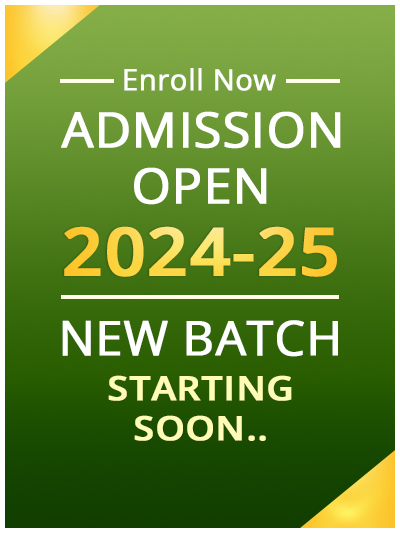
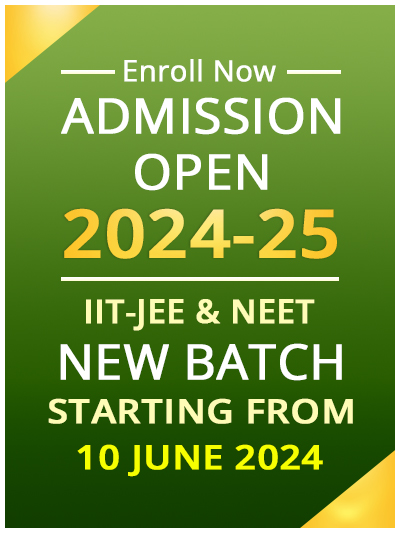
update result,model,notification,gallery

Changed region(s): [[0.12, 0.0901, 0.9, 0.9006], [0.84, 0.1801, 0.87, 0.2101]]

diff --git a/src/pages/Result.js b/src/pages/Result.js
@@ -1,79 +1,3 @@
-// import React from "react";
-// import Tab from "react-bootstrap/Tab";
-// import Tabs from "react-bootstrap/Tabs";
-// import Image from "react-bootstrap/Image";
-// import "./Result.css";
-
-// // Component to render the content of each tab
-// function TabContent({ year, imageUrl }) {
-//   return (
-//     <div
-//       style={{
-//         display: "flex",
-//         flexDirection: "column",
-//         justifyContent: "center",
-//         alignItems: "center",
-//         backgroundColor: "var(--light-yellow-color)",
-//         paddingBottom: "20px",
-//       }}
-//     >
-//       <h1 className="headingTitleNormal display-3">
-//         <span className="headingTitleGradient"> Result : </span> {year}
-//       </h1>
-//       <Image src={imageUrl} fluid />
-//     </div>
-//   );
-// }
-
-// function NoAnimationExample() {
-//   // Array of years and corresponding image URLs for tabs
-//   const tabsData = [
-//     { year: "2023", imageUrl: "./images/result/2023-01.jpg" },
-//     { year: "2022", imageUrl: "./images/result/2022.jpg" },
-//     { year: "2021", imageUrl: "./images/result/2021.jpg" },
-//     { year: "2020", imageUrl: "./images/result/2019.jpg" },
-//     { year: "2019", imageUrl: "./images/result/2019.jpg" },
-//     { year: "2018", imageUrl: "./images/result/2019.jpg" },
-//     { year: "2017", imageUrl: "./images/result/2019.jpg" },
-//     { year: "2016", imageUrl: "./images/result/2019.jpg" },
-//     { year: "2015", imageUrl: "./images/result/2015.jpg" },
-//     { year: "2014", imageUrl: "./images/result/2014.jpg" },
-//     { year: "2013", imageUrl: "./images/result/2013.jpg" },
-
-//     // Add more years and image URLs as needed
-//   ];
-
-//   return (
-//     <Tabs
-//       defaultActiveKey="2023"
-//       transition={false}
-//       id="noanim-tab-example"
-//       className="mb-3 scrollmenu"
-//       style={{
-//         display: "flex",
-//         justifyContent: "center",
-//       }}
-//     >
-//       {/* Render tabs dynamically */}
-//       {tabsData.map(({ year, imageUrl }) => (
-//         <Tab key={year} eventKey={year} title={year}>
-//           <TabContent year={year} imageUrl={imageUrl} />
-//         </Tab>
-//       ))}
-//     </Tabs>
-//   );
-// }
-
-// const Result = () => {
-//   return (
-//     <div className="container" style={{ marginTop: "10px" }}>
-//       <NoAnimationExample />
-//     </div>
-//   );
-// };
-
-// export default Result;
-
 import React from "react";
 import Tab from "react-bootstrap/Tab";
 import Tabs from "react-bootstrap/Tabs";
@@ -110,6 +34,9 @@ function NoAnimationExample() {
     {
       year: "2024",
       imageUrls: [
+        "./images/result/2024-07.jpg",
+        "./images/result/2024-05.jpg",
+        "./images/result/2024-06.jpg",
         "./images/result/2024-01.jpg",
         "./images/result/2024-02.jpg",
         "./images/result/2024-03.jpg",
@@ -137,7 +64,7 @@ function NoAnimationExample() {
 
   return (
     <Tabs
-      defaultActiveKey="2023"
+      defaultActiveKey="2024"
       transition={false}
       id="noanim-tab-example"
       className="mb-3 scrollmenu"

diff --git a/src/pages/Home.js b/src/pages/Home.js
@@ -146,7 +146,7 @@ const Home = () => {
   };
   const HomeFirstImages = [
     "./images/home/top1.jpg",
-    "./images/home/c1.jpg",
+    "./images/home/top3.jpg",
     "./images/home/top2.jpg",
   ];
 
@@ -190,12 +190,11 @@ const Home = () => {
                   >
                     <li>
                       <strong>
-                        JEE / NEET <span style={{ color: "yellow" }}>New</span>
+                        New Batch ( JEE / NEET ){" "}
+                        <span style={{ color: "yellow" }}>New</span>
                       </strong>
                       <p style={{ color: "var(--light-yellow-color)" }}>
-                        <label>
-                          2<sup>nd</sup> JEE and NEET Batch Starting From May
-                        </label>
+                        <label>Starting From 10 june 2024</label>
                       </p>
                     </li>
                     <li>
@@ -206,20 +205,7 @@ const Home = () => {
                         <label>ca/cs batch starting from june</label>
                       </p>
                     </li>
-                    <li>
-                      <strong>
-                        Admit Card for JEE(Advanced) 2024 Examination
-                        <span style={{ color: "yellow" }}> New</span>
-                      </strong>
-                      <p style={{ color: "var(--light-yellow-color)" }}>
-                        <a
-                          href="https://jeeadv.iitm.ac.in/applicant24/"
-                          target="_blank"
-                        >
-                          Click to open
-                        </a>
-                      </p>
-                    </li>
+
                     <li>
                       <strong>
                         MIDAS — Sausar | Seoni | Pandhurna{" "}
@@ -228,6 +214,21 @@ const Home = () => {
                       <p style={{ color: "var(--light-yellow-color)" }}>
                         <a
                           href="https://www.youtube.com/watch?v=UA36JC4Rl8s"
+                          target="_blank"
+                        >
+                          Click to open
+                        </a>
+                      </p>
+                    </li>
+
+                    <li>
+                      <strong>
+                        Admit Card for JEE(Advanced) 2024 Examination
+                        <span style={{ color: "yellow" }}> New</span>
+                      </strong>
+                      <p style={{ color: "var(--light-yellow-color)" }}>
+                        <a
+                          href="https://jeeadv.iitm.ac.in/applicant24/"
                           target="_blank"
                         >
                           Click to open

diff --git a/src/pages/Gallery.js b/src/pages/Gallery.js
@@ -32,6 +32,50 @@ function NoAnimationExample() {
 
   const images1 = [
     {
+      url: "images/gallery/m20.jpg",
+      description: "Patrika Newspaper : 6 june 2024",
+    },
+    {
+      url: "images/gallery/m21.jpg",
+      description: "Divya express Newspaper : 6 june 2024",
+    },
+    {
+      url: "images/gallery/m22.jpg",
+      description: "The Hitavada English Newspaper : 6 june 2024",
+    },
+    {
+      url: "images/gallery/m23.jpg",
+      description: "Navbharat Newspaper : 6 june 2024",
+    },
+    {
+      url: "images/gallery/m24.jpg",
+      description: "Miraj Bharat Newspaper : 6 june 2024",
+    },
+    {
+      url: "images/gallery/m30.jpg",
+      description: "Jabalpur Newspaper : 6 june 2024",
+    },
+    {
+      url: "images/gallery/m25.jpg",
+      description: "",
+    },
+    {
+      url: "images/gallery/m26.jpg",
+      description: "",
+    },
+    {
+      url: "images/gallery/m27.jpg",
+      description: "",
+    },
+    {
+      url: "images/gallery/m28.jpg",
+      description: "",
+    },
+    {
+      url: "images/gallery/m29.jpg",
+      description: "",
+    },
+    {
       url: "images/gallery/m5.jpg",
       description:
         "Ms. Soumya Singh, Civil Judge of Sausar, Visit MIDAS TAJ CLASSES, SAUSAR",
